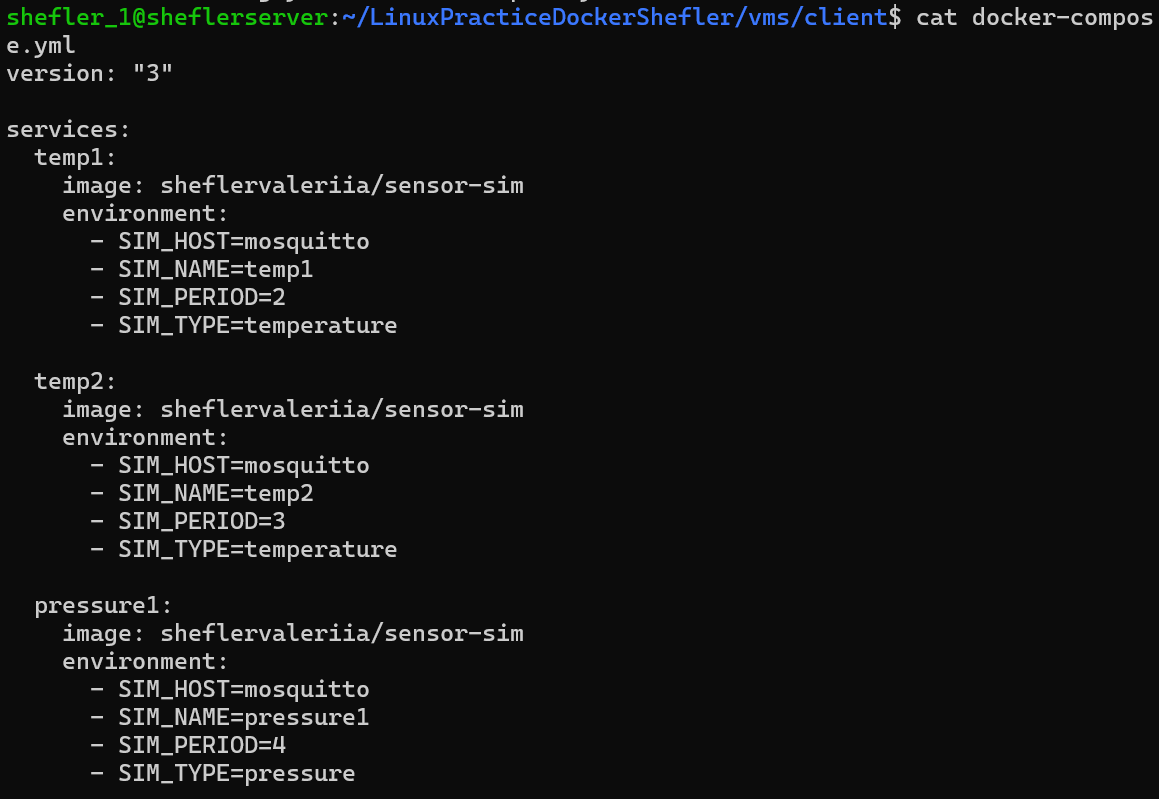
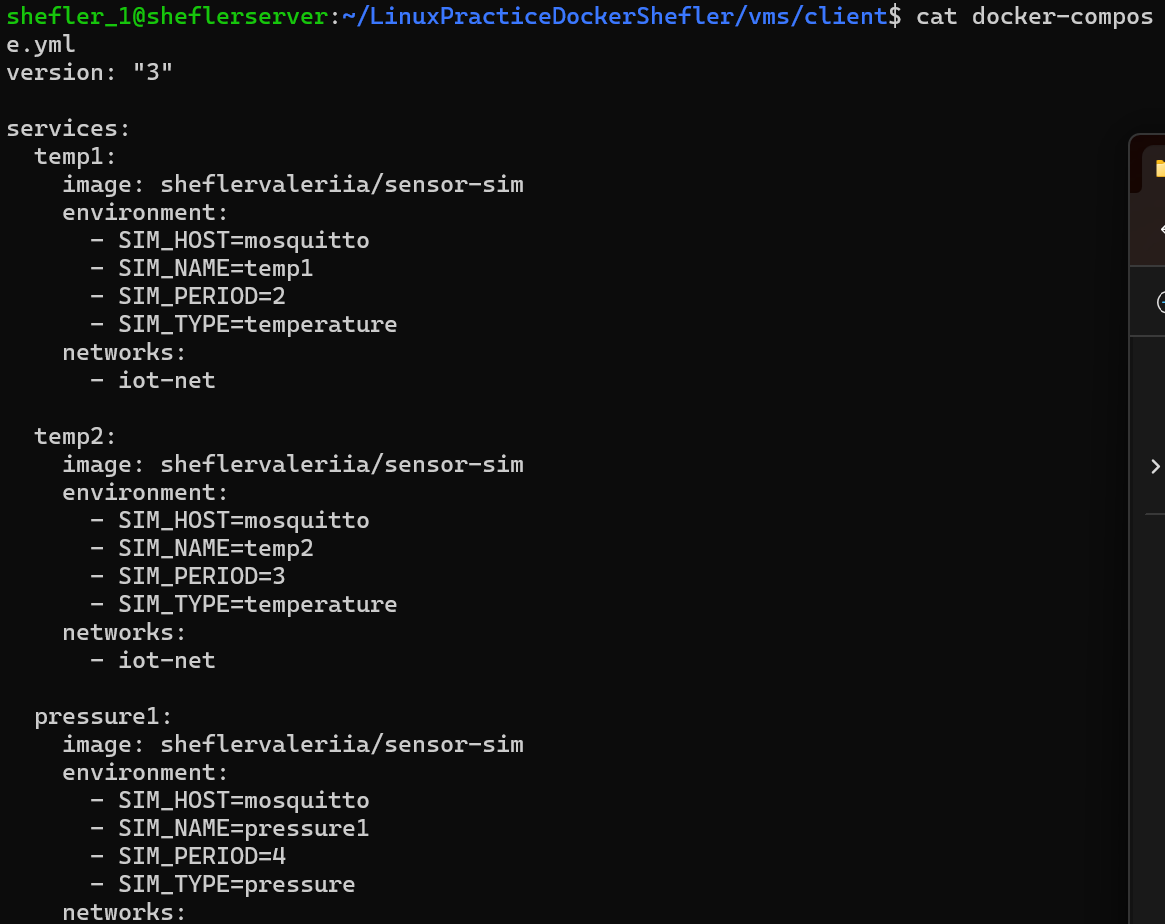
описание изменений

diff --git a/report.md b/report.md
@@ -410,7 +410,19 @@ docker-compose up -d и проверим, что dashboard не пропал:
 Действительно, теперь графики не пропадают.  
 
 Внесем еще ряд изменений, создадим docker-compose файл для машины B:  
-    ![ ](assets/images/69_docker-compose.yml_B.png)  
+    version: "3"
+
+    services:
+    mosquitto:
+        image: eclipse-mosquitto
+        ports:
+        - "1883:1883"
+        networks:
+        - iot-net
+
+    networks:
+    iot-net:
+        driver: bridge  
 Изменим аналогичный файл на  машине A:  
      version: "3"
 
@@ -422,6 +434,8 @@ docker-compose up -d и проверим, что dashboard не пропал:
         - SIM_NAME=temp1
         - SIM_PERIOD=2
         - SIM_TYPE=temperature
+        networks:
+        - iot-net
 
     temp2:
         image: sheflervaleriia/sensor-sim
@@ -430,6 +444,8 @@ docker-compose up -d и проверим, что dashboard не пропал:
         - SIM_NAME=temp2
         - SIM_PERIOD=3
         - SIM_TYPE=temperature
+        networks:
+        - iot-net
 
     pressure1:
         image: sheflervaleriia/sensor-sim
@@ -438,6 +454,8 @@ docker-compose up -d и проверим, что dashboard не пропал:
         - SIM_NAME=pressure1
         - SIM_PERIOD=4
         - SIM_TYPE=pressure
+        networks:
+        - iot-net
 
     pressure2:
         image: sheflervaleriia/sensor-sim
@@ -446,6 +464,8 @@ docker-compose up -d и проверим, что dashboard не пропал:
         - SIM_NAME=pressure2
         - SIM_PERIOD=5
         - SIM_TYPE=pressure
+        networks:
+        - iot-net
 
     current1:
         image: sheflervaleriia/sensor-sim
@@ -454,6 +474,8 @@ docker-compose up -d и проверим, что dashboard не пропал:
         - SIM_NAME=current1
         - SIM_PERIOD=1
         - SIM_TYPE=current
+        networks:
+        - iot-net
 
     humidity1:
         image: sheflervaleriia/sensor-sim
@@ -462,7 +484,11 @@ docker-compose up -d и проверим, что dashboard не пропал:
         - SIM_NAME=humidity1
         - SIM_PERIOD=3
         - SIM_TYPE=humidity  
+        networks:
+        - iot-net
     
     networks:
         iot-net:
             driver: bridge
+
+Ссылка на docker-hub: https://hub.docker.com/repository/docker/sheflervaleriia/sensor-sim/general

diff --git a/instructions.md b/instructions.md
@@ -14,3 +14,14 @@
     ![](assets/images/67_checking_last.png)  
 Проверим, что в docker-compose файле нужное количество датчиков:  
     ![](assets/images/68_checking_last.png)  
+На машине B также произведем клонирование репозитория студента аналогичным образом и произведем запуск docker-compose:  
+    ![](assets/images/71_checking_last.png)  
+
+
+
+
+
+
+
+Когда мы в директории ~/* название репозитория */vms/client произведем запуск docker-compose и проверку:  
+    ![](assets/images/70_checking_last.png)  